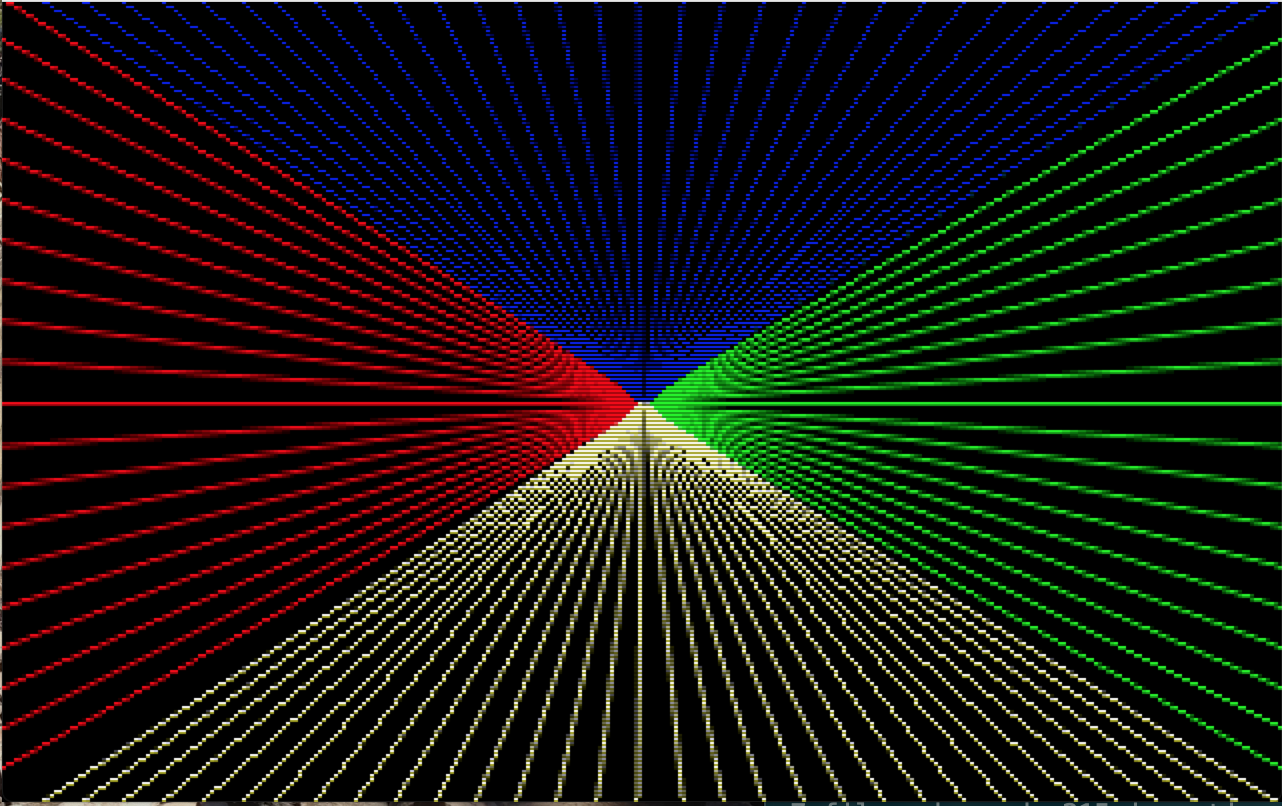
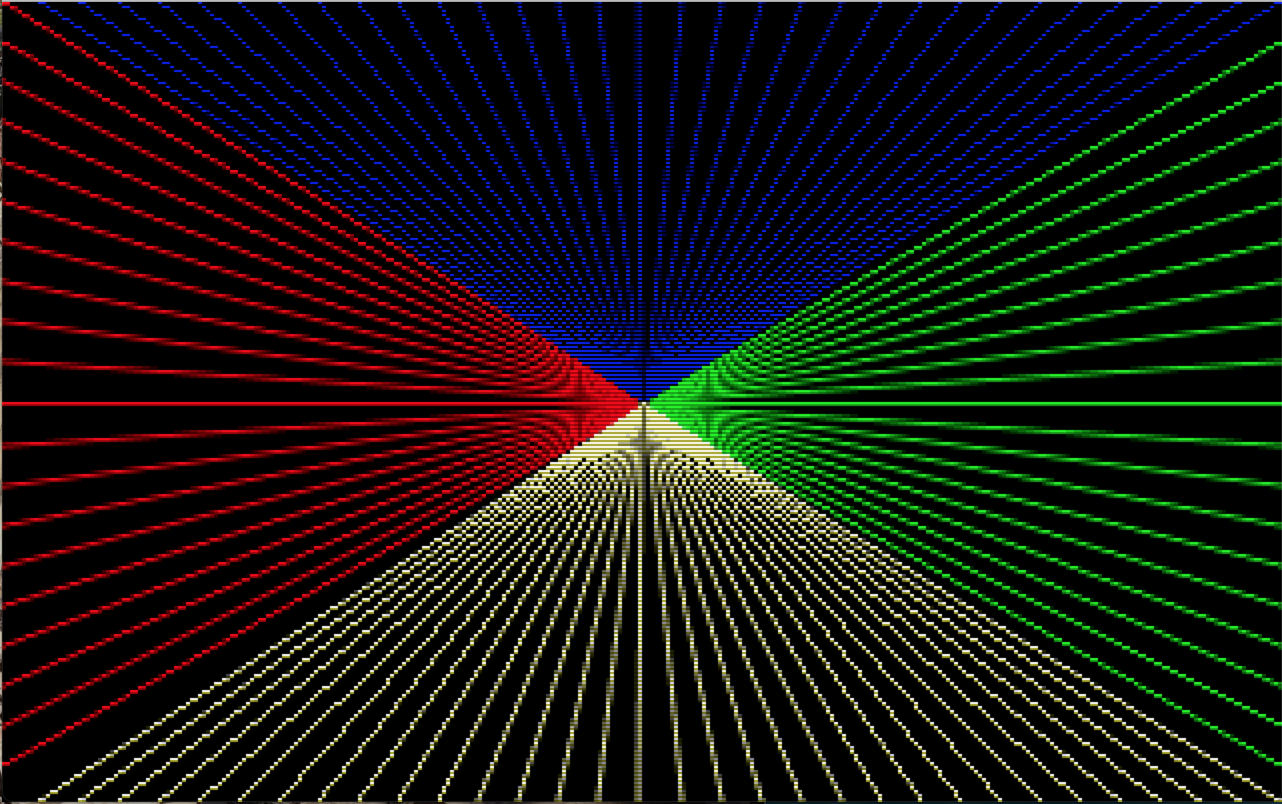
More cleaner AA line routine and image

diff --git a/src/aaline.c b/src/aaline.c
@@ -1,6 +1,6 @@
 void aaline(int x1, int y1, int x2, int y2)
 {
-    long inc, err;
+    long inc, inc_minus_one, err;
     int dx, dy, sx, sy, tmp, alpha;
 
     sx = sy = 1;
@@ -21,9 +21,10 @@ void aaline(int x1, int y1, int x2, int y2)
             sx > 0 ? hspan(x1, x2, y1) : hspan(x2, x1, y1);
             return;
         }
-        inc   = ((long)dy << 16) / dx;
-        err   = inc - 0x00008000L;
-        alpha = err >= 0 ? 0 : 0x7F;
+        inc           = ((long)dy << 16) / dx;
+        inc_minus_one = inc - 0x00010000L;
+        err           = inc - 0x00008000L;
+        alpha         = err >= 0 ? 0 : 0x7F;
         while (x1 != x2)
         {
             aapixel(x1, y1, 0xFF^alpha);
@@ -31,7 +32,7 @@ void aaline(int x1, int y1, int x2, int y2)
             if (err >= 0)
             {
                 alpha = 0;
-                err  += inc - 0x00010000L;
+                err  += inc_minus_one;
                 y1   += sy;
             }
             else
@@ -51,9 +52,10 @@ void aaline(int x1, int y1, int x2, int y2)
             sy > 0 ? vspan(x1, y1, y2) : vspan(x1, y2, y1);
             return;
         }
-        inc   = ((long)dx << 16) / dy;
-        err   = inc - 0x00008000L;
-        alpha = err >= 0 ? 0 : 0x7F;
+        inc           = ((long)dx << 16) / dy;
+        inc_minus_one = inc - 0x00010000L;
+        err           = inc - 0x00008000L;
+        alpha         = err >= 0 ? 0 : 0x7F;
         while (y1 != y2)
         {
             aapixel(x1, y1, 0xFF^alpha);
@@ -61,7 +63,7 @@ void aaline(int x1, int y1, int x2, int y2)
             if (err >= 0)
             {
                 alpha = 0;
-                err  += inc - 0x00010000L;
+                err  += inc_minus_one;
                 x1   += sx;
             }
             else
